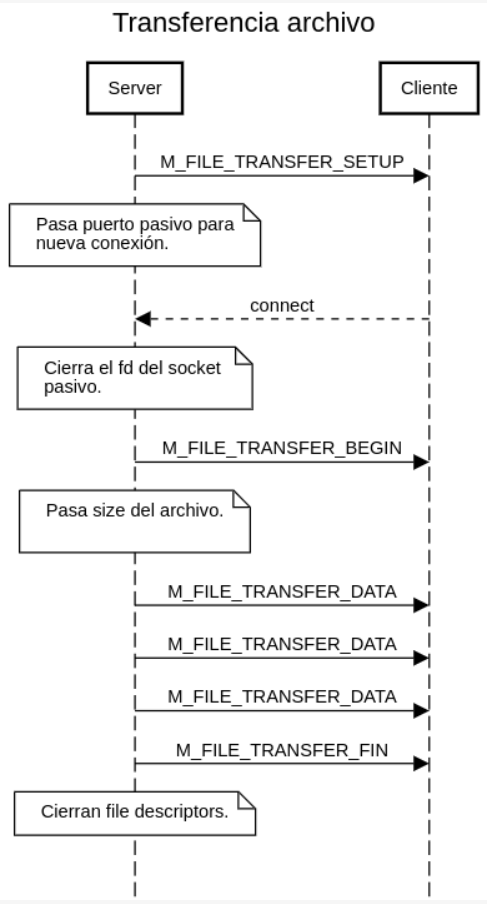
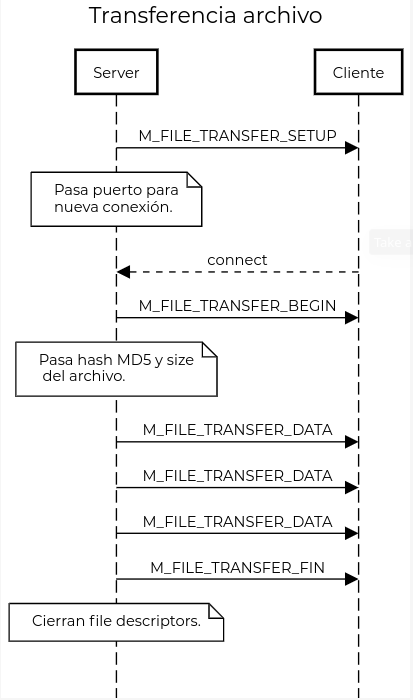
Added Informe

Changed region(s): [[0.0, 0.0, 0.9879, 1.0]]

diff --git a/server/src/srv_util.c b/server/src/srv_util.c
@@ -334,15 +334,16 @@ int get_datetime(char* buf, size_t max_len)
 
 int log_event(FILE* log, char* event_str, ...)
 {
-	va_list format_specs;
-	va_start(format_specs, event_str);
 	char datetime[200];
 	if (get_datetime(datetime, 50) == -1)
 		return -1;
+	va_list format_specs;
+	va_start(format_specs, event_str);
 	char string_to_print[128];
 	vsnprintf(string_to_print, 128, event_str, format_specs);
 	strncat(datetime, string_to_print, 200);
 	fprintf(log, "%s", datetime);
+	va_end(format_specs);
 	return 0;
 	
 }

diff --git a/server/src/srv.c b/server/src/srv.c
@@ -378,10 +378,10 @@ int main(int argc, char *argv[])
 
 		/* Envío de paquetes */
 		msg_producer_t msg_producer;
-		char buffer_productores[TAM];
 
 		if (mq_receive(mq, (char *)&msg_producer, sizeof(msg_producer), NULL) > 0)
 		{
+			char buffer_productores[TAM];
 			packet_t *packet = malloc(sizeof(packet_t));
 			memset(buffer_productores, '\0', sizeof(buffer_productores));
 			log_event(fptr_log_productores, "[Delivery manager] Mensaje de productor: %d con timestamp = %lu recibido\n",

diff --git a/server/src/cli.c b/server/src/cli.c
@@ -15,8 +15,6 @@ int parse_command(char *string, command_t *command);
 
 int main()
 {
-	int fd;
-
 	// FIFO file path
 	char * myfifo = "/tmp/cli_dm_fifo";
 
@@ -28,7 +26,7 @@ int main()
 	while (1)
 	{
 		// Open FIFO for write only
-		fd = open(myfifo, O_WRONLY);
+		int fd = open(myfifo, O_WRONLY);
 
 		// Leo input de stdin
 		memset(buf, '\0', 80);

diff --git a/productores/src/prod_free_mem.c b/productores/src/prod_free_mem.c
@@ -49,6 +49,7 @@ unsigned int get_free_mem()
 	if (fscanf(fptr, "%*s %*u %*s %*s %*u %*s %*s %u", &mem_free) != 1)
   {
     fprintf(stderr, "Fallo el fscanf de /proc/meminfo");
+    fclose(fptr);
     return 0;
   }
   while (fclose(fptr) == EOF)

diff --git a/productores/src/prod_sys_load.c b/productores/src/prod_sys_load.c
@@ -48,10 +48,11 @@ int get_sys_load(float* sys_load_1min) {
 
   if (fscanf(fptr, "%f", sys_load_1min) != 1)
   {
+    fclose(fptr);
     fprintf(stderr, "fallo al buscar system load");
     return -1;
   }
-
+  fclose(fptr);
   return 0;
 
 }

diff --git a/Informe.md b/Informe.md
@@ -1,0 +1,65 @@
+# TP 1
+
+## Instalación
+
+1. Tener instalado openssl.
+2. Correr el comando `sudo make`, para compilar los programas y cambiar `somaxconn`, el número 
+máximo para la cola de `listen()`.
+
+## Diseño
+
+- Se eligió trabajar con TCP porque hace una gran parte del trabajo, asegura que los paquetes 
+llegan en orden, corrección de errores, etc.
+
+### Conexión Servidor - Clientes
+
+1. El suscriptor hace el connect al servidor.
+2. El servidor pollea un socket que esta escuchando, y acepta la request.
+3. Inmediatamente después el servidor le avisa que fue aceptado enviándole un token
+identificatorio.
+4. El servidor agrega un nodo a una lista enlazada guardando los siguientes datos
+de la conexión/sesión.
+  * `timestamp` - es la última vez que el cliente ACKEO un mensaje de su suscripción.
+  * `susc_counter` - es el contador de suscripciones, sirve para decidir si cerrarle la
+  conexión o no al cliente, ya que si está suscripto y no responde los mensajes, hay que
+  echarlo por inactivo, y si no está suscripto a nadie, no tiene nada que responder asi
+  que no hay que echarlo.
+  * `sockfd` - socket por el cual el server puede comunicarse con el cliente.
+  * `token` - campo identificatorio. 
+
+![](img/connection_t.png)
+
+### Reconexión
+
+- Se optó por un simple esquema de autenticación, en el que el servidor le entrega un token
+al cliente para que se identifique con el mismo, en vez de identificarse con ip/puerto.
+- El token es de 32 bits, vulnerable a ataques de cumpleaños.
+- El esquema es el siguiente:
+
+![](img/Reconexión.png)
+
+### Comunicación DM - Productores
+
+- Se usó una cola de mensajes POSIX, porque se puede manejar como un file descriptor
+más, y si bien la cola de mensajes de SystemV tiene prioridades, no son necesarias
+en esta aplicación.
+
+### Comunicación DM - CLI
+
+- Se optó por hacer un binario a parte para la CLI, siguiendo el esquema de la consigna.
+- Para comunicarlos se usó una named pipe o FIFO, ya que son procesos no emparentados.
+
+### Envío del log
+
+- Se usó la librería del siguiente enlace https://github.com/kuba--/zip para 
+realizar la compresión.
+- En vista de que en caso de ser monohilo y recibir muchas request del log, la performance
+podría verse comprometida, se optó por hacer la transferencia del archivo en paralelo.
+- La recepción del archivo también se hace en paralelo para poder seguir recibiendo los 
+mensajes de los productores.
+- El esquema es el siguiente
+
+![](img/envío_archivo.png)
+
+- Finalmente el cliente chequea el hash del archivo recibido con el del servidor.
+
